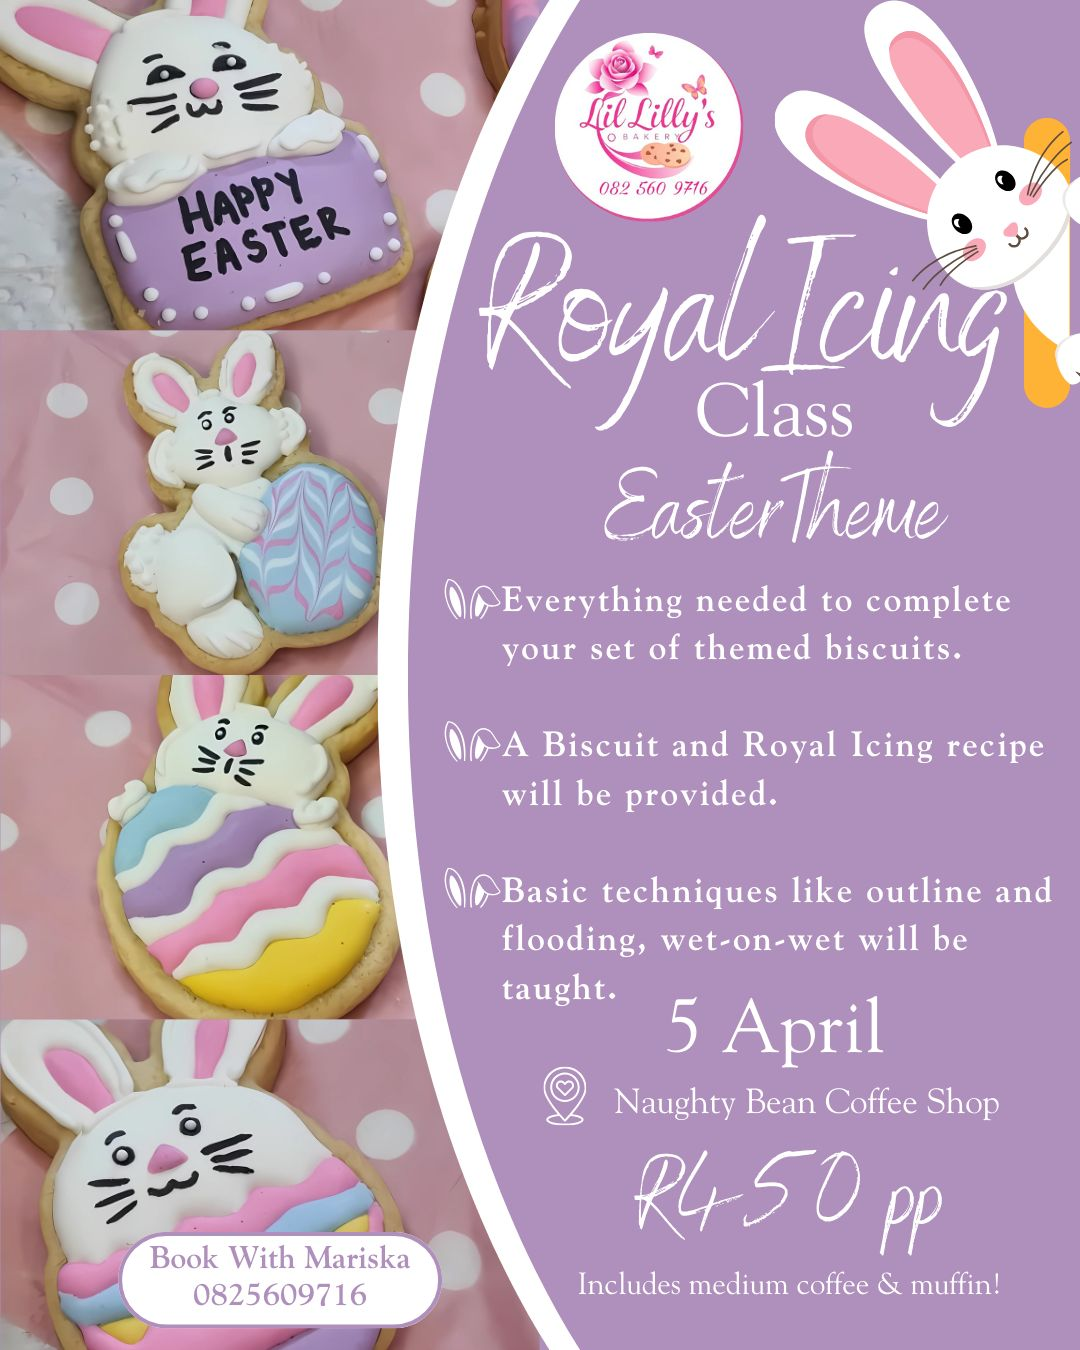
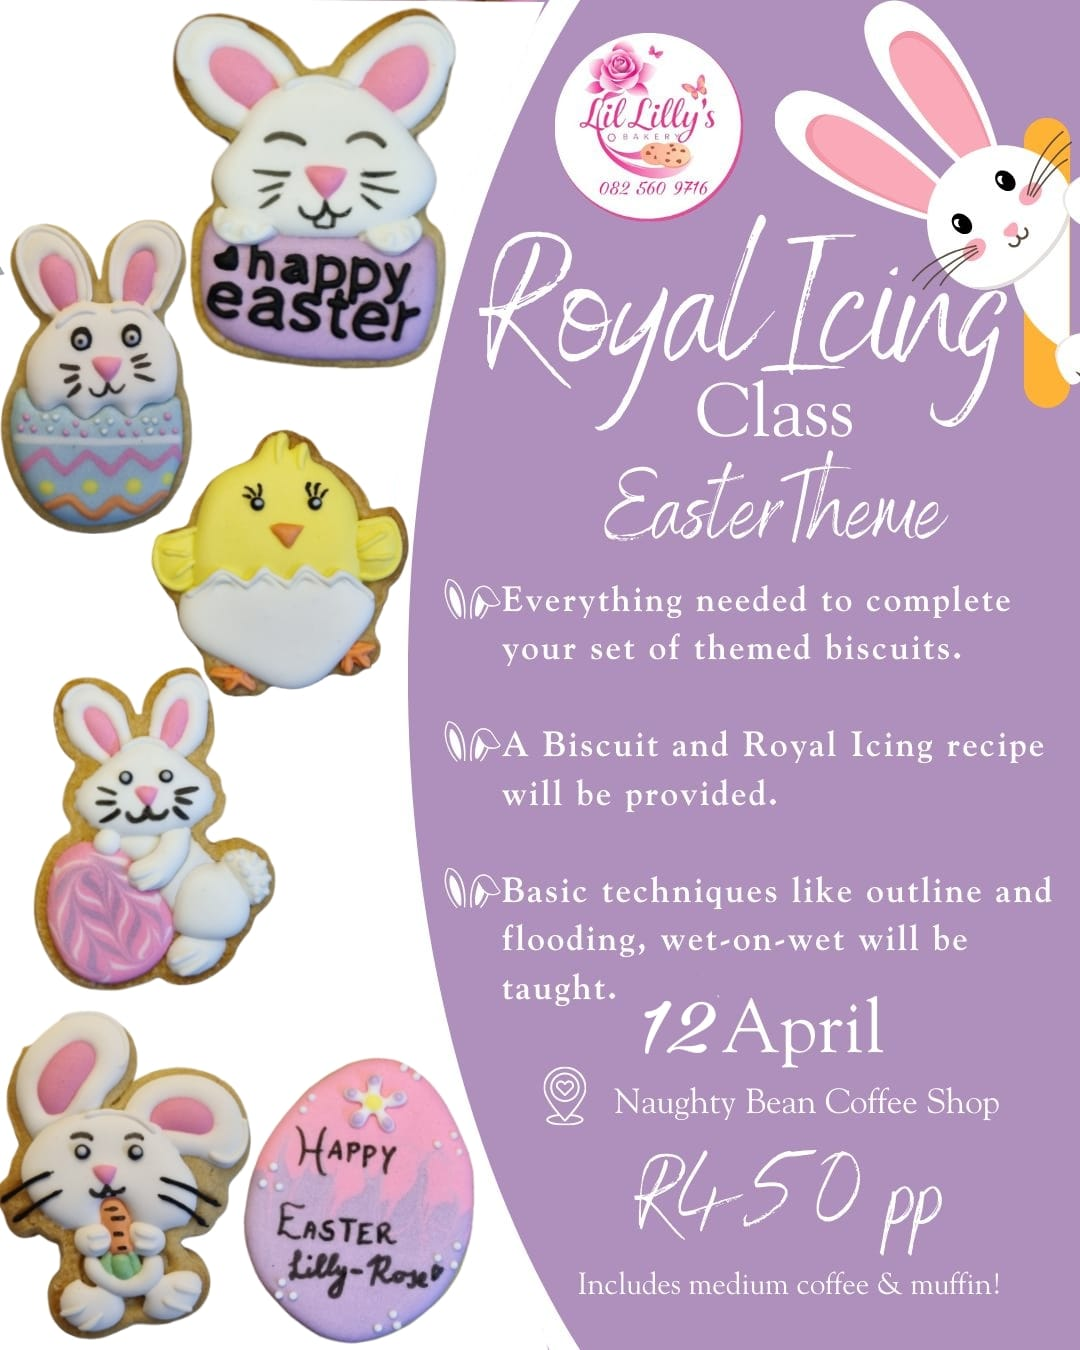
update

diff --git a/product-beginner.html b/product-beginner.html
@@ -210,7 +210,7 @@
       <div class="info-list">
         <ul>
           <li><strong>Price:</strong> R450</li>
-          <li><strong>Date:</strong> Saturday 5 April 2025</li>
+          <li><strong>Date:</strong> Saturday 12 April 2025</li>
           <li><strong>Time:</strong> 10:00 to 13:30</li>
           <li><strong>Venue:</strong> Naughty Bean Coffee Shop - The Kruin Centre, 528 Banket Drive, Helderkruin</li>
           <li><strong>Skill level:</strong> Beginner</li>
